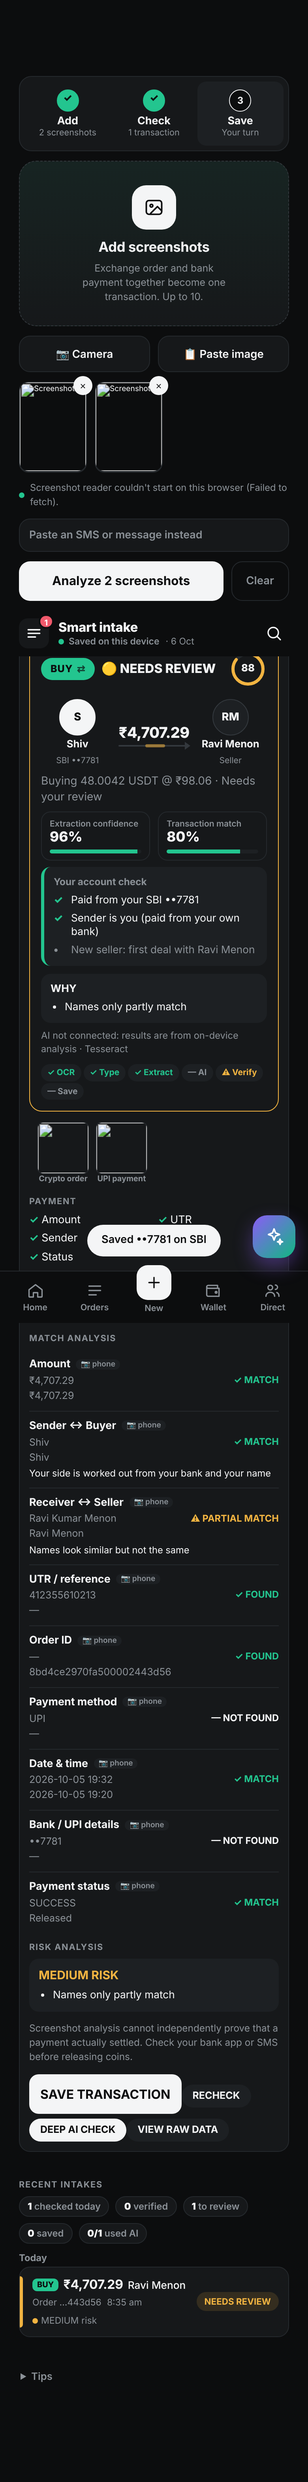
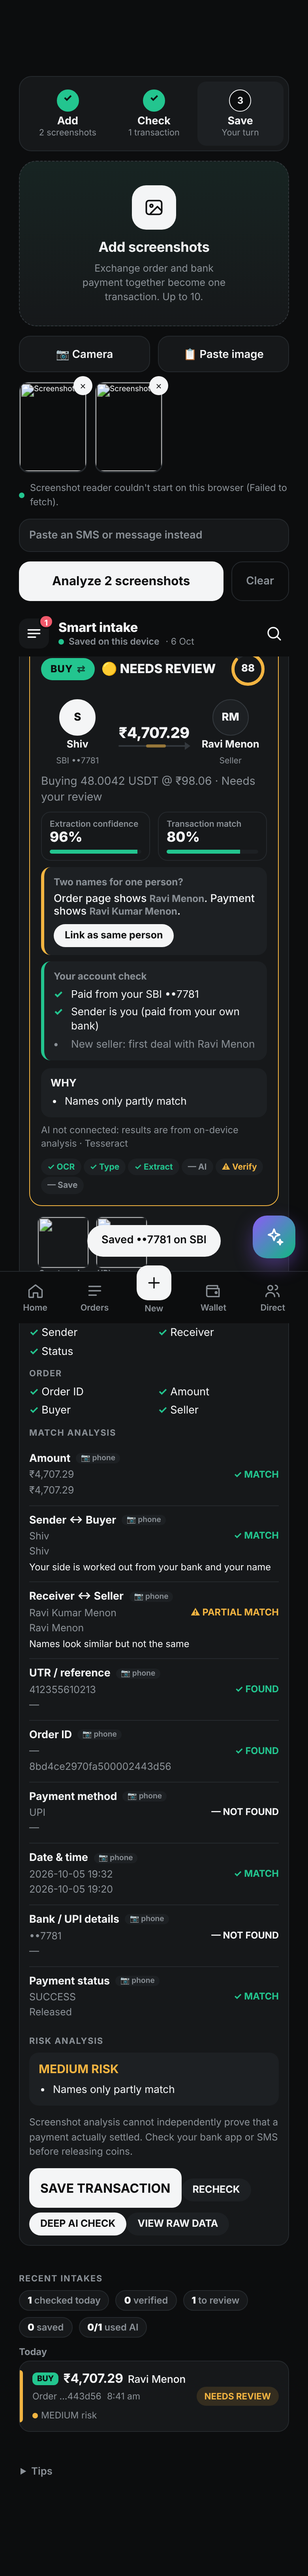
Smart Intake 0.0.0.00038: link the exchange order name with the payment name (same person), shown as Also known as
Claude-Session: https://claude.ai/code/session_01Wus5P8BMW3JZywQjbeFwaG

diff --git a/web/index.html b/web/index.html
@@ -4773,6 +4773,7 @@ function ixCardHtml(g,many){const X=g.X,P=X.pay,O=X.ord,T=VER_TXT[g.cmp.overall]
     <div class="ixflow">${party(L)}<div class="ixmid"><div class="ixamt">${amt!=null?inr(amt):"Amount not read"}</div><div class="ixline"><span></span></div>${O.fiat!=null&&P.amount!=null&&Math.abs(O.fiat-P.amount)>1?`<small>order says ${inr(O.fiat)}</small>`:""}</div>${party(R)}</div>
     <div class="vt">${deal?esc(deal)+" · ":""}${g.cmp.overall==="VERIFIED"?"Screenshots appear consistent":g.cmp.overall==="REVIEW"?"Needs your review":"Potential inconsistency detected"}${g.order?"":" · payment only"}</div>
     ${ixScoreHtml(g)}
+    ${ixLinkHtml(g)}
     ${M.lines.length?`<div class="ixmine ${M.verdict}"><b>Your account check</b><ul>${M.lines.map(l=>`<li class="${l.s}">${esc(l.t)}${l.own?ixOwnRow(l.own):""}</li>`).join("")}</ul></div>`:""}
     <div class="ixwhy"><b>WHY</b><ul>${ixWhy(g).map(w=>`<li>${esc(w)}</li>`).join("")}</ul></div>
     <div class="ixai">${g.ai==="ok"?"✨ Checked by AI vision on top of the phone reading":g.ai==="unavailable"?"⚠ Cloud AI unavailable"+(g.aiErr==="bad_key"?" (key rejected)":g.aiErr==="rate_limited"?" (no free requests left)":g.aiErr==="busy"?" (busy or slow)":"")+": results below are from on-device analysis":g.ai==="na"?"AI not connected: results are from on-device analysis":"📷 Read on your phone"}${g.items[0]&&g.items[0].ocr?` · ${esc(g.items.map(x=>x.ocr&&x.ocr.engine).filter((v,i,a)=>v&&a.indexOf(v)===i).join(" + "))}`:""}</div>
@@ -4798,6 +4799,7 @@ function ixDraw(){try{ixRail()}catch(e){}const out=$("#i2-ix");if(!out)return;ou
     d.addEventListener("click",e=>{const b=e.target.closest("[data-ix]");if(!b)return;ixAct(g,b.dataset.ix,b)});out.appendChild(d);
     const slot=d.querySelector("[data-paycard]");if(slot){const it=g.pays.find(x=>!x.support)||g.pays[0];try{if(it&&it.ocr&&it.ocr.text){const pp=payParse(it.ocr.text);if(pp.ok||pp.amount)slot.appendChild(payCard(pp,it.file,"phone"))}}catch(e){console.error(e)}}})}
 async function ixAct(g,a,btn){
+  if(a==="linknames"){const c=ixLinkCand(g);if(c){await ixLinkNames(c.nick,c.real);ixS.groups.forEach(x=>{try{ixVerify(x)}catch(e){}});ixDraw();toast(`Linked ${c.nick} = ${c.real}`)}return}
   if(a==="debug"){sheets.ixdebug(g.id);return}
   if(a==="raw"){const r=btn.closest(".ixb").querySelector(".ixraw");r.hidden=!r.hidden;return}
   if(a==="addbank"){sheets.bank();return}
@@ -4903,6 +4905,7 @@ function cpTag(n){if(!n)return null;return cpTagMap.get(cpKey(n))||null}
 function cpBadge(n){const t=cpTag(n);return t&&t.tag==="star"?'<span class="cpb star" title="Trusted">★</span>':t&&t.tag==="block"?'<span class="cpb block" title="Blocked">⛔</span>':""}
 function cpStats(){const m={};orders.forEach(o=>{const n=(o.cp||"").trim();if(!n)return;const k=cpKey(n);const x=m[k]=m[k]||{name:n,n:0,c:0,ap:0,vol:0,last:0};x.n++;if(o.status==="Cancelled")x.c++;if(o.status==="Appeal")x.ap++;if(o.status==="Completed")x.vol+=orderTotal(o);x.last=Math.max(x.last,o.time)});
   Object.entries(cpBook()).forEach(([k,h])=>{const x=m[k]=m[k]||{name:h.n,n:0,c:0,ap:0,vol:0,last:0};x.n+=h.o;x.c+=h.c;x.ap+=h.a;x.vol+=h.bv+h.sv;x.last=Math.max(x.last,h.l);x.hist=h.o});
+  recs.filter(r=>r.kind==="ident"&&r.realName).forEach(r=>{if(m[r.to])m[r.to].name=r.realName});
   recs.filter(x=>x.kind==="cptag").forEach(t=>{if(!m[t.id])m[t.id]={name:t.name,n:0,c:0,ap:0,vol:0,last:0}});return m}
 function cpCheck(){const n=$("#f-cp").value.trim(),w=$("#cpWarn");if(!n){w.hidden=true;return}const t=cpTag(n),st=cpStats()[cpKey(n)];
   if(t&&t.tag==="block"){w.className="cpwarn block";w.textContent="⛔ Blocked counterparty"+(t.note?": "+t.note:"")+". Be careful with this deal.";w.hidden=false;return}
@@ -5225,7 +5228,7 @@ sheets.wa=function(tab){tab=tab||"home";const due=parties.map(p=>({p,l:partyOwed
   })};
 ACT.wa_send={d:a=>`WhatsApp ${a.kind==="stmt"?"statement":"update"} → ${(parties.find(p=>p.id===a.party)||{}).name||"party"}`,run:async a=>{const p=parties.find(x=>x.id===a.party);if(!p)throw new Error("party not found");try{closeAiPop()}catch(e){}setTimeout(()=>sheets.wasend({party:p.id,kind:a.kind==="stmt"?"stmt":"update"}),200)}};
 // ================= FEEDBACK & UPDATES
-const APP_BUILD=37;const APP_VER="0.0.0."+String(APP_BUILD).padStart(5,"0");
+const APP_BUILD=38;const APP_VER="0.0.0."+String(APP_BUILD).padStart(5,"0");
 setInterval(()=>{const c=document.getElementById("dClock");if(c)c.textContent=new Date().toLocaleTimeString("en-IN",{hour:"numeric",minute:"2-digit"})},15000);
 
 const FB_T={bug:["Problem","🐞","Kya galat hua? Kis screen pe, kya dabaya, kya aana chahiye tha…"],feat:["New feature","✨","Naya kya chahiye? Jaise: har party ka monthly summary…"],imp:["Improve","🔧","Kya behtar ho sakta hai? Jaise: ye button bada ho…"],like:["Like it","❤","Kya accha laga? Isse pata chalta hai kya mat badlo."]};
@@ -5292,6 +5295,7 @@ sheets.feedback=function(tab,pre){tab=tab||"send";pre=pre||{};
   })};
 // ================= ABOUT (version + updates)
 const APP_LOG=[
+  ["0.0.0.00038","6 Oct 2026",["New: when the exchange order page shows one name and the payment shows another, Smart Intake offers Link as same person. The two names are joined, remembered for next time, and shown on the trader as Also known as"]],
   ["0.0.0.00037","6 Oct 2026",["New Cancel analysis button while Smart Intake is reading","New live view while reading: each screenshot shows what was found (amount, order ID, UTR, names) and what was not confidently detected","New two separate scores on every result: Extraction confidence (how well we read it) and Transaction match (how well payment and order belong together)","New Debug screen (turn on in Intake memory > Developer): OCR text and confidence, fields and their source screenshot, match calculation, risk flags, AI response, processing time","Fixed: a repeated name part such as DHIRAJ KUMAR kumar is now read as DHIRAJ KUMAR","Fixed: a wrong label such as Account Sender A... is no longer shown as your account"]],
   ["0.0.0.00036","6 Oct 2026",["New Chat replies: ready exchange-chat messages with amount, name and your bank details filled in; add your own","New One client, many names: merge the same person under different names so orders, trust and limits count as one","New Udhar khata: who owes you and who you owe, in rupees or USDT, with due dates, reminders and alerts","New Day close: end-of-day checklist and match your real bank, cash and USDT balances, with a saved history","New Business insights: best clients, best payment methods and banks, best days and hours, and clients who went quiet","New Bank health: credit streaks, rest-day advice, limits left, and a freeze log that learns your safe daily credit level","New At a glance card and an Android home-screen widget with today's profit, open orders and alerts (needs the new APK)"]],
   ["0.0.0.00035","6 Oct 2026",["New Intake memory: Smart Intake now learns on this phone, so the AI is needed less and less","Learns that two similar names are the same person (for example Likith Shetty = Likith Rajesh Shetty) when you save a deal","Learns where details sit on an exchange or payment screen after the AI reads something the phone missed, and uses that next time without the AI","Learns your bank from its last 4 digits when the AI recognises the logo","Shows known sellers and buyers (earlier deals) and how many intakes needed the AI today","Settings > Intake memory lists everything learned, and each item can be forgotten"]],
@@ -5397,6 +5401,7 @@ sheets.trader=function(name){if(!name)return;const D=traderData(name);const lv=!
   const myB=avgBuyRate(orders,coin),myS=(()=>{let q=0,v=0;orders.forEach(o=>{if(o.side==="SELL"&&o.status==="Completed"&&o.coin===coin){q+=+o.qty;v+=o.qty*o.rate}});return q?v/q:0})();
   const isB=D.tag&&D.tag.tag==="block",isS=D.tag&&D.tag.tag==="star";
   openSheet(`<div class="insw"><div class="pvh"><span class="pva">${esc(name.slice(0,2).toUpperCase())}</span><div class="pvn"><b>${esc(name)} ${cpBadge(name)}</b><small>${D.total?`Since ${new Date(D.first).toLocaleDateString("en-IN",{day:"numeric",month:"short",year:"numeric"})} · last ${dfmt(D.last)}`:"No orders yet"}</small></div><span class="pvs ${lv}">${!D.closed?"New":lv==="ok"?"Good":lv==="warn"?"Careful":"Risky"}</span></div>
+    ${akaNames(name).length?`<p class="note" style="margin:6px 0">Also known as: ${akaNames(name).map(esc).join(", ")}</p>`:""}
     <div class="tgh">${ring(D.score,100,lvlCol(lv==="mute"?"warn":lv),D.closed?D.score:"—","trust score")}<div class="tgk"><div><span>Volume</span><b>${inr(Math.round(D.vol))}</b></div><div><span>Completion</span><b>${D.closed?Math.round(D.comp*100)+"%":"—"}</b></div></div></div>
     <div class="msgr">${[["Orders",D.total,""],["Cancelled",D.canc,D.canc?"neg":""],["Appeals",D.ap,D.ap?"neg":""],["Bought from you",D.buy.n?fmtQ(+D.buy.q.toFixed(2))+" "+coin:"—",""],["Sold to you",D.sell.n?fmtQ(+D.sell.q.toFixed(2))+" "+coin:"—",""],["Usual time",D.total?hLab(D.hb):"—",""]].map(([l,v,c])=>`<div><span>${l}</span><b class="${c}">${v}</b></div>`).join("")}</div>
     ${D.buy.n||D.sell.n?`<div class="pcsec">Rates with this trader</div>${insList([D.buy.n&&myS?[D.buy.avg>=myS?"ok":"warn",`You sold to them at <b>₹${D.buy.avg.toFixed(2)}</b> avg · your overall sell ₹${myS.toFixed(2)}.`]:null,D.sell.n&&myB?[D.sell.avg<=myB?"ok":"warn",`You bought from them at <b>₹${D.sell.avg.toFixed(2)}</b> avg · your overall buy ₹${myB.toFixed(2)}.`]:null])}`:""}
@@ -5552,9 +5557,9 @@ function identSuggest(){const S=cpStats();const E=Object.entries(S).sort((a,b)=>
   else if(a.k.length>=9&&p7Lev(a.k,b.k)<=1)why="1 letter different";
   else if(typeof ixlAlias==="function"&&ixlAlias(a.name,b.name))why="Learned by Intake";
   if(why)out.push({a,b,why})}return out}
-async function identMerge(fromK,toK,names){if(!fromK||!toK||fromK===toK)return false;if(identRes(toK)===fromK)return false;const to=identRes(toK);
+async function identMerge(fromK,toK,names,realName){if(!fromK||!toK||fromK===toK)return false;if(identRes(toK)===fromK)return false;const to=identRes(toK);
  try{const tg=cpTagMap&&cpTagMap.get(fromK);if(tg&&!cpTagMap.get(to)){await putRec({...tg,id:to})}}catch(e){}
- await putRec({id:"idn_"+fromK,kind:"ident",from:fromK,to,names:names||[],time:Date.now()});return true}
+ await putRec({id:"idn_"+fromK,kind:"ident",from:fromK,to,names:names||[],realName:realName||"",time:Date.now()});return true}
 sheets.ident=function(){const sug=identSuggest();const S=cpStats();const names=Object.values(S).map(x=>x.name).sort();const mer=recs.filter(r=>r.kind==="ident").sort((a,b)=>b.time-a.time);
  openSheet(`<div class="insw"><div class="insh"><h3>One client, many names</h3><span class="note">${sug.length} to check</span></div>
   <p class="note">Same person with two names? Merge them so orders, trust, limits and khata count as one client. You can undo any time.</p>
@@ -5721,6 +5726,10 @@ function ixLiveHtml(){const its=(ixS.items||[]).filter(x=>x.ocr&&x.ocr.text);if(
   else if(O)f.push(["Amount",O.fiat!=null?money(O.fiat):null],["Order ID",O.id?String(O.id).slice(0,12)+(String(O.id).length>12?"…":""):null],["Buyer",O.buyer],["Seller",O.seller]);
   else f.push(["Details",null]);
   return`<div class="ixlv"><b>${esc(IX_TYPES[it.cls.type]||"Screenshot")}</b>${f.map(([k,v])=>`<div><span>${k}</span>${v?`<em>${esc(v)} ✓</em>`:`<i>Not confidently detected ⚠</i>`}</div>`).join("")}</div>`}).join("")+`</div>`}
+function ixLinkCand(g){try{const X=g.X,P=X.pay,O=X.ord;const sd=ixSide(g);if(!g.order||!sd)return null;const nick=sd==="BUY"?O.seller:O.buyer,real=sd==="BUY"?P.receiver:P.sender;if(!nick||!real)return null;if(cpKey(nick)===cpKey(real)||verName(nick,real)==="M")return null;return{nick,real}}catch(e){return null}}
+function ixLinkHtml(g){const c=ixLinkCand(g);return c?`<div class="ixmine warn"><b>Two names for one person?</b><div style="margin:4px 0 8px;font:500 .84rem var(--body)">Order page shows <b>${esc(c.nick)}</b>. Payment shows <b>${esc(c.real)}</b>.</div><button type="button" class="mini" data-ix="linknames">Link as same person</button></div>`:""}
+async function ixLinkNames(nick,real){const a=ixlN(nick),b=ixlN(real);if(a&&b&&a!==b){const[x,y]=a<b?[a,b]:[b,a];try{await ixlSet("ixl_alias_"+ixlH(x+"|"+y),{t:"alias",a:x,b:y,da:nick,db:real})}catch(e){}}return identMerge(cpKey(nick),cpKey(real),[nick,real],real)}
+function akaNames(name){const k=cpKey(name);const me=String(name||"").toLowerCase();return[...new Set(recs.filter(r=>r.kind==="ident"&&r.to===k).flatMap(r=>r.names||[]).filter(n=>n&&String(n).toLowerCase()!==me))]}
 const IX_W={amount:30,orderid:15,buyer:10,seller:10,utr:10,method:10,time:10,acct:5,status:5},IX_S={MATCH:1,FOUND:1,UNCLEAR:.4,NOTFOUND:0,MISMATCH:0};
 function ixScores(g){const X=g.X,P=X.pay,O=X.ord;
  const all=[P.amount,P.utr,P.sender,P.receiver,P.status,P.date||P.time,...(g.order?[O.id,O.fiat!=null?O.fiat:O.crypto,O.buyer||O.seller,O.when]:[])];

diff --git a/tests/intake_link_names_test.py b/tests/intake_link_names_test.py
@@ -1,0 +1,41 @@
+import asyncio, json, time, sys, os
+from playwright.async_api import async_playwright
+APP=os.environ.get("APP","/home/claude/p2p-tracker.html")
+FX=os.path.dirname(os.path.abspath(__file__))+"/fixtures/"
+T={n:open(FX+f).read() for n,f in {"pay1.png":"pay_phonepe.txt","ord1.png":"order_kucoin.txt"}.items()}
+now=int(time.time()*1000)
+RECS=[{"id":"B1","kind":"bank","name":"HDFC","bankName":"HDFC Bank","accNo":"50100012341234","type":"Bank","opening":100000,"time":now-30*864e5},
+ {"id":"o9","side":"BUY","coin":"USDT","qty":50,"rate":90,"status":"Completed","time":now-5*864e5,"cp":"Sono","pay":"UPI","splits":[]}]
+async def main():
+  ok=True
+  def chk(n,c):
+    nonlocal ok
+    print(("PASS " if c else "FAIL ")+n);ok=ok and bool(c)
+  async with async_playwright() as p:
+    b=await p.chromium.launch();pg=await b.new_page(viewport={"width":390,"height":900});errs=[]
+    pg.on("pageerror",lambda e:errs.append(str(e)))
+    await pg.route("**/*",lambda r:r.abort() if r.request.url.startswith("http") else r.continue_())
+    await pg.add_init_script(f"localStorage.setItem('p2p_orders_v1',{json.dumps(json.dumps(RECS))})")
+    await pg.goto("file://"+APP);await pg.wait_for_timeout(900)
+    await pg.evaluate("window.__T=%s"%json.dumps(T))
+    await pg.evaluate("void(()=>{ixOcr=async(it)=>({text:window.__T[it.file.name]||'',conf:92,engine:'Tesseract',status:'ok'});assetsApi={upload:async()=>({id:'a'})}})()")
+    await pg.evaluate("goPage('intake')");await pg.wait_for_timeout(300)
+    mk=lambda n,k:{"name":n,"mimeType":"image/png","buffer":bytes([k]*40)}
+    await pg.set_input_files("#i2-file",[mk("pay1.png",1),mk("ord1.png",2)]);await pg.click("#i2-go");await pg.wait_for_timeout(2800)
+    await pg.evaluate("void(()=>{const g=ixS.groups[0];g.side='BUY';g.order.ord.seller='Sono';(g.pays[0].pay||g.X.pay).receiver='DHIRAJ KUMAR';g.X.ord.seller='Sono';g.X.pay.receiver='DHIRAJ KUMAR';ixDraw()})()")
+    await pg.wait_for_timeout(200)
+    cand=await pg.evaluate("(()=>{const c=ixLinkCand(ixS.groups[0]);return c?[c.nick,c.real]:null})()")
+    chk("link offered for two different names",cand==["Sono","DHIRAJ KUMAR"])
+    chk("button visible",await pg.evaluate("!!document.querySelector('[data-ix=linknames]')"))
+    await pg.evaluate("document.querySelector('[data-ix=linknames]').click()");await pg.wait_for_timeout(400)
+    chk("same client key after link",await pg.evaluate("cpKey('Sono')===cpKey('DHIRAJ KUMAR')"))
+    chk("old orders now under the real name",await pg.evaluate("(()=>{const s=cpStats()[cpKey('DHIRAJ KUMAR')];return !!s&&s.name==='DHIRAJ KUMAR'&&s.n>=1})()"))
+    chk("names count as same person later",await pg.evaluate("verName('Sono','DHIRAJ KUMAR')==='M'"))
+    chk("aka shown for trader",await pg.evaluate("akaNames('DHIRAJ KUMAR').includes('Sono')"))
+    chk("offer gone after linking",await pg.evaluate("!ixLinkCand(ixS.groups[0])"))
+    await pg.evaluate("sheets.trader('DHIRAJ KUMAR')");chk("trader sheet shows also known as","also known as" in (await pg.inner_text("#sheetBody")).lower())
+    chk("no page errors",not errs)
+    if errs:print(errs)
+    await b.close()
+  print("ALL OK" if ok else "FAILED");sys.exit(0 if ok else 1)
+asyncio.run(main())
